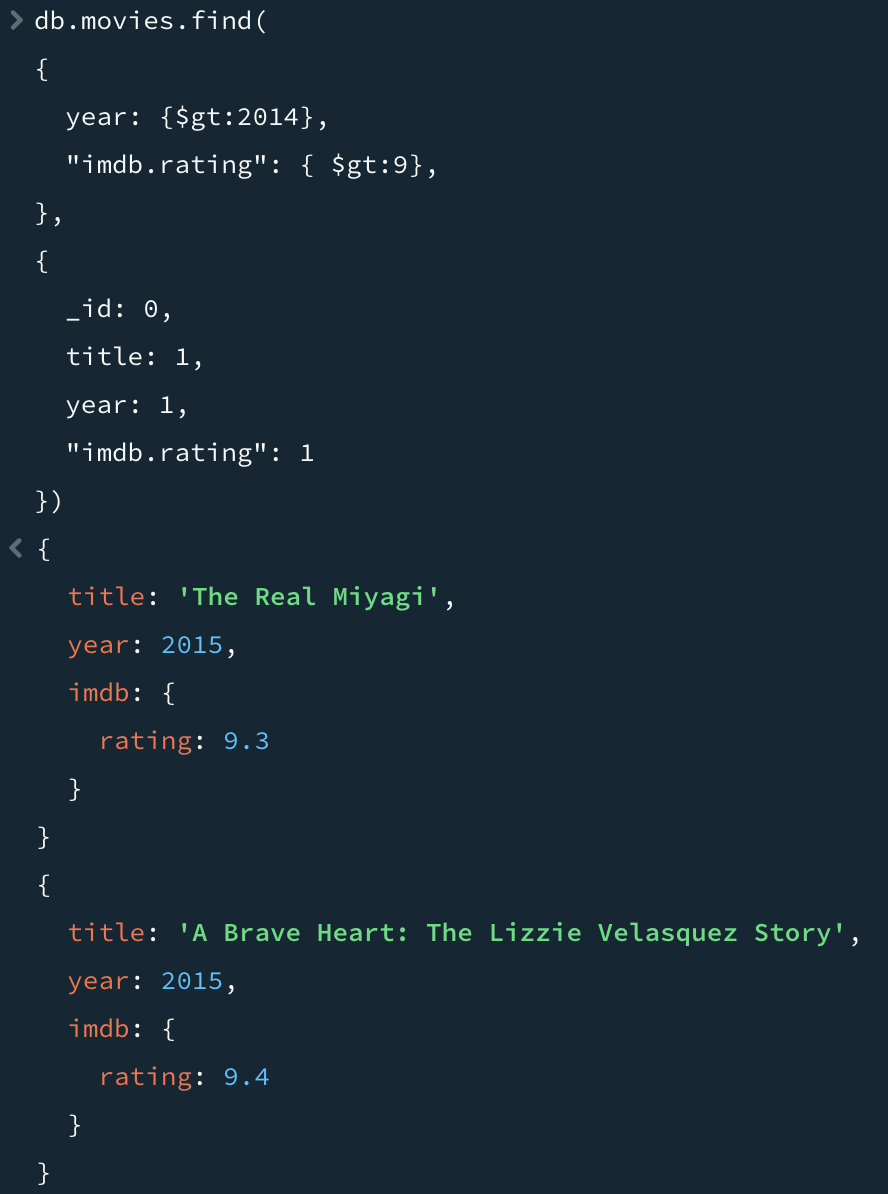
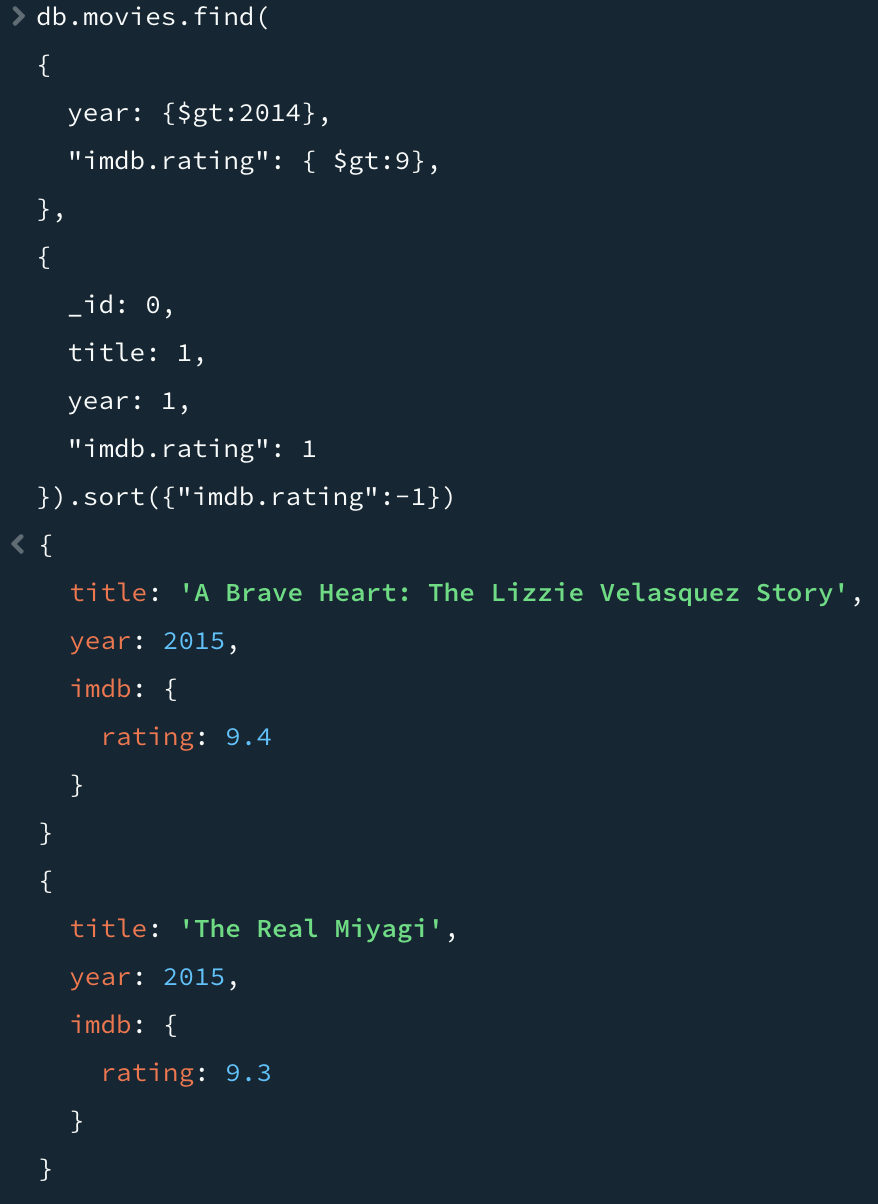
fixed order of second query

diff --git a/README.md b/README.md
@@ -2,26 +2,29 @@
 
 ## Overview
 
-The goals of this assignment are to setup the MongoDB Atlas, install MongoDB Community Edition, and run queries in the MongoDB Compass. 
+The goals of this assignment are to setup the MongoDB Atlas, install MongoDB Community Edition, and run queries in the MongoDB Compass.
 
 ### Assigned Work
 
 The assigned work for this HW are as follows:
+
 - Signup for MongoDB Atlas
 - Install MongoDB Community Edition
 - Run queries in MongoDB Compass
-Once the registration and setup are completed, we are assigned to complete a few queries to demonstrate our understanding of writing queries to retreive data from the sample set "sample_mflix"
+  Once the registration and setup are completed, we are assigned to complete a few queries to demonstrate our understanding of writing queries to retreive data from the sample set "sample_mflix"
 
 ## The Queries
+
 ### 1)
+
 The first query we were told to write was to find all movies with a runtime greater than 200 minutes in the year 1983, with the movies sorted by increasing runtime. We are also to only display the following fields: runtime, title, and year.
-Here is the query I made with its result: 
+Here is the query I made with its result:
 ![image](https://github.com/user-attachments/assets/908ab370-317b-4b19-a091-20e0e6c1ce10)
 The first argument in find() will actually get the movies with the desired criteria, the second will ensure the only fields in the output are the desired ones. I also added a .sort() method on the end to ensure that it would be ordered in increasing runtime.
 
 ### 2)
+
 The second query we were told to write is to find all movies that came out after the year 2014, with an IMDb rating greater than 9.
 Here is the query and its result:
-![image](https://github.com/user-attachments/assets/77854d5e-e9e5-4cb5-a532-5a89c84c6fe1)
-Once again, we use a find() to get the result. The first argument will get only the movies of the queries requirements, and the second will only show the fields that were requested.
-
+![alt text](image.png)
+Once again, we use a find() to get the result. The first argument will get only the movies of the queries requirements, and the second will only show the fields that were requested. Also, I sorted the movies on decreasing rating in order to get the desired order in the sample output.
